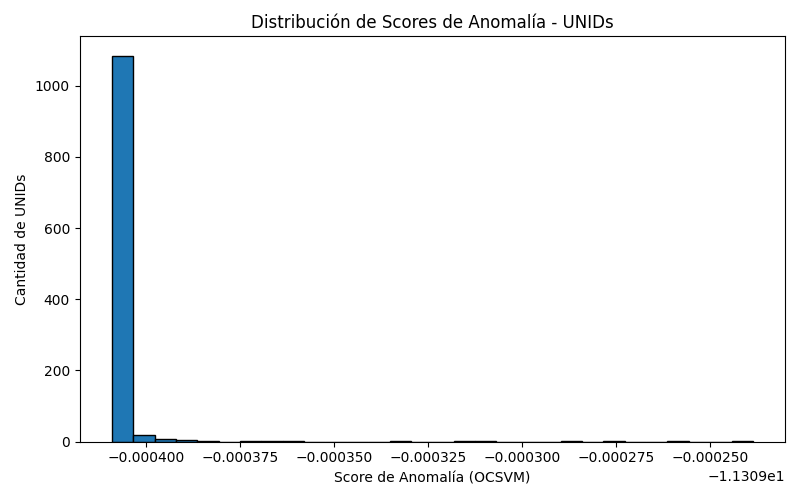
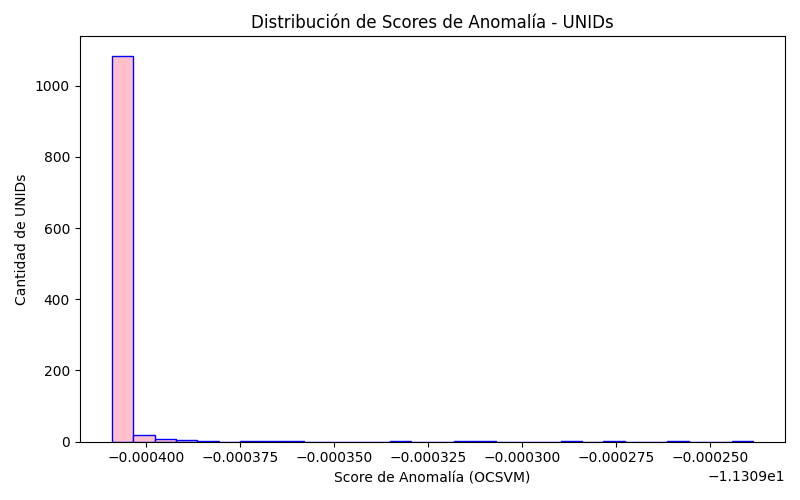
grafica de anomalías rosa :')

diff --git a/src/anomaly/predict_anomalies_ocsvm.py b/src/anomaly/predict_anomalies_ocsvm.py
@@ -10,7 +10,7 @@ import matplotlib.pyplot as plt
 # archivo de datos de test: data/raw/unids_3F_beta_err_names.txt
 # modelo entrenado: outputs/models/ocsvm_astro_model.joblib
 # scaler: outputs/models/scaler_astro.joblib
-# archivo de salida: outputs/predictions/anomalies_ocsvm_astro.txt
+# ubicación de archivos de salida: outputs/anomalies/
 
 project_root = os.path.abspath(os.path.join(os.path.dirname(__file__), '..', '..'))
 
@@ -45,7 +45,7 @@ df_test['anomaly_score'] = anomaly_scores
 
 # Visualizar la distribución de scores de anomalía
 plt.figure(figsize=(8, 5))
-plt.hist(df_test['anomaly_score'], bins=30, edgecolor='black')
+plt.hist(df_test['anomaly_score'], bins=30, edgecolor='blue',  color='pink')
 plt.xlabel('Score de Anomalía (OCSVM)')
 plt.ylabel('Cantidad de UNIDs')
 plt.title('Distribución de Scores de Anomalía - UNIDs')
